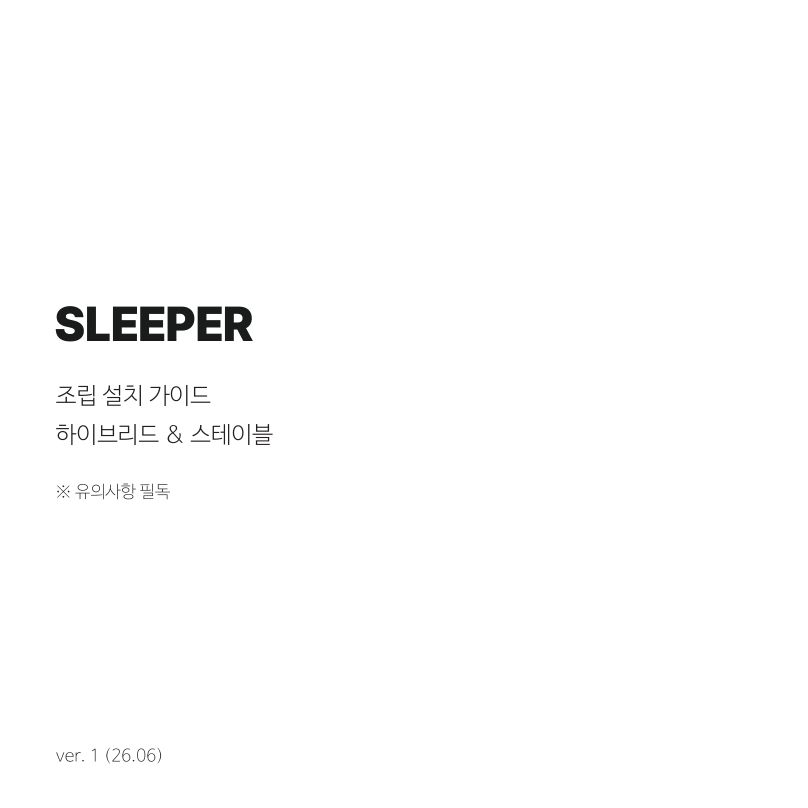
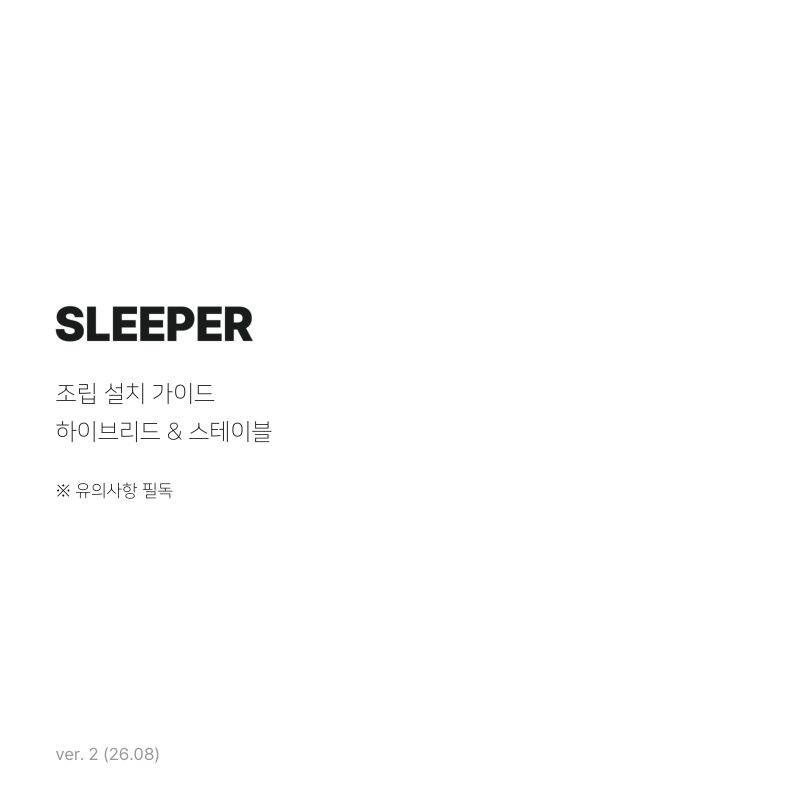
chore: 주간 검증 [2026-08-10] — 수정 1 / 신규 1 / 단종 0
- hybrid-stable: PDF 파일 교체 감지 (2026-08-05 업로드). 9페이지 이미지 재변환.
  구 file_id 1CF9gELcnvFJ7xE → 신 1erOEaRGhDwKA7AyCyCxym1-1Su7tsgB2
- 블룸: 신규 제품 PDF 감지 (사용자 검토 필요) → Issue #6
- lund-library / odd: inventory timestamp 소수점 정밀도 보정 (false positive 방지)

Closes #7

Claude-Session: https://claude.ai/code/session_01DcWZcR5FRS4sN3giRB8EGR

diff --git a/_change_report.md b/_change_report.md
@@ -1,23 +1,30 @@
 # 침대 설치가이드 — 주간 변경 보고서
 
-- **검증 일시**: 2026-07-27T09:00:00+09:00
-- **이전 검증**: 2026-07-20
+- **검증 일시**: 2026-08-10T09:00:00+09:00
+- **이전 검증**: 2026-08-03
 - **추적 중**: 19개 가이드
 
 ## 요약
 
 | 구분 | 갯수 |
 |---|---|
-| 🆕 새로 추가된 PDF | **1** |
-| 🔄 수정됨 (재변환 필요) | **2** |
-| 🗑 단종 (Drive에서 사라짐) | **0** |
-| ✓ 변경 없음 | 15 |
+| 🆕 새로 추가된 PDF | **2** |
+| 🔄 수정됨 (재변환 필요) | **5** |
+| 🗑 단종 (Drive에서 사라짐) | **1** |
+| ✓ 변경 없음 | 12 |
 
 ## 🆕 새로 추가된 PDF
 
+- **하이브리드, 스테이블 ver2 조립설명서_0805.pdf**
+  - file_id: `1erOEaRGhDwKA7AyCyCxym1-1Su7tsgB2`
+  - modified: 2026-08-05T09:26:16.686Z
+  - parent: 2. 하이브리드, 스테이블 토퍼 분리 매트리스
+  - **액션**: 가이드 페이지 신규 생성 필요
+  - 제안 슬러그: `하이브리드-스테이블-ver2-조립설명서_0805-pdf`
+
 - **260720 블룸 _조립도.pdf**
   - file_id: `1pPtKF6J-DxC7YuKPBVarmfKVb9vhK2HE`
-  - modified: 2026-07-22T08:29:49Z
+  - modified: 2026-07-22T08:29:49.172Z
   - parent: 블룸
   - **액션**: 가이드 페이지 신규 생성 필요
   - 제안 슬러그: `260720-블룸-_조립도-pdf`
@@ -29,7 +36,28 @@
   - 현재: 2026-05-19T06:54:40Z
   - **액션**: PDF 재다운로드 + 페이지 이미지 재생성
 
+- **lund-library** (룬드 라이브러리 시리즈_조립도 및 부품도.pdf)
+  - 이전: 2026-07-30T00:50:52Z
+  - 현재: 2026-07-30T00:50:52.031Z
+  - **액션**: PDF 재다운로드 + 페이지 이미지 재생성
+
+- **lund-library** ((진도버전)_룬드라이브러리_조립도.pdf)
+  - 이전: 2026-07-30T00:50:52Z
+  - 현재: 2026-07-30T00:57:39.484Z
+  - **액션**: PDF 재다운로드 + 페이지 이미지 재생성
+
+- **odd** (호텔셋업 모듈형_조립도.pdf)
+  - 이전: 2026-07-06T02:14:21Z
+  - 현재: 2026-07-06T02:14:21.251Z
+  - **액션**: PDF 재다운로드 + 페이지 이미지 재생성
+
 - **odd** (호텔셋업 모듈형_박스별 부품도.pdf)
   - 이전: 2026-07-06T02:14:21Z
-  - 현재: 2026-07-06T02:16:48Z
+  - 현재: 2026-07-06T02:16:48.358Z
   - **액션**: PDF 재다운로드 + 페이지 이미지 재생성
+
+## 🗑 Drive에서 사라진 파일 (단종 가능성)
+
+- **hybrid-stable** (하이브리드, 스테이블 ver2 조립설명서.pdf)
+  - file_id: `1CF9gELcnvFJ7xE--VNfRr3IDCPvCxS_U`
+  - **액션**: 가이드 페이지 archive/제거 검토 — 다른 폴더로 이동했을 수도 있음
